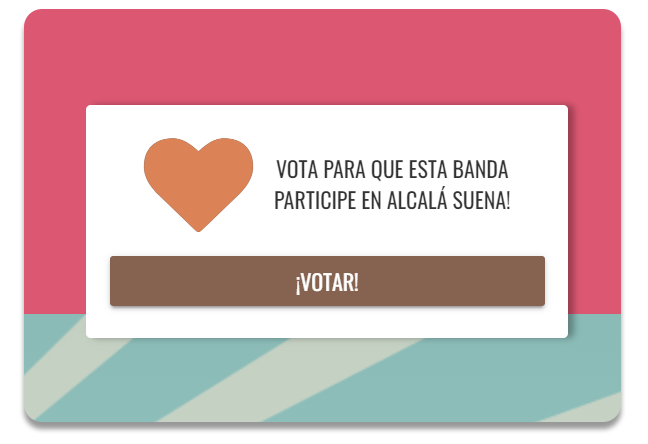
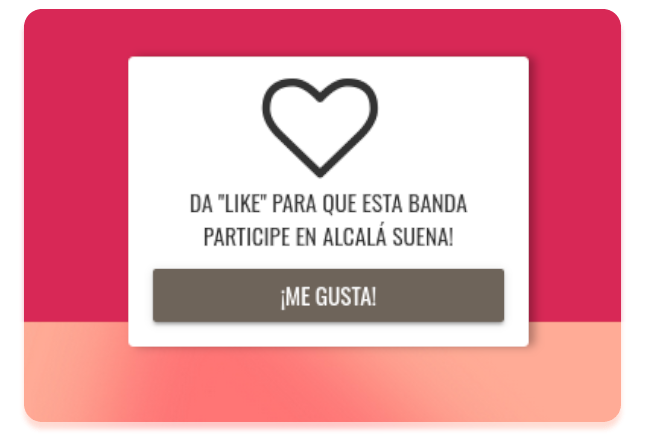
Updated public vote

diff --git a/templates/contest/public_vote.html b/templates/contest/public_vote.html
@@ -10,14 +10,14 @@
         <div class="text-center pending-vote-band" {% if voted %}style="display:none;"{% endif %}>
             <i class="fa fa-heart-o fa-5x" aria-hidden="true"><span class="num_votes">{{num_votes}}</span></i>
             <p> Da "like" para que esta banda <br>participe en Alcalá Suena!</p>
-            <button class="btn btn-primary btn-block btn-add-vote" data-vote="{% url 'contest_public_vote' band.pk %}">¡Votar!</button>
+            <button class="btn btn-primary btn-block btn-add-vote" data-vote="{% url 'contest_public_vote' band.pk %}">¡Me gusta!</button>
     <div class="alert alert-warning text-center" style="display:none;" role="alert"><span>Ya has dado like al máximo de bandas posibles</span><br><a href="{% url 'contest_user_votes' %}" class="btn-primary btn btn-block">Ver mis votos</a></div>
         </div>
     {% else %}
         <div class="text-center">
             <i class="fa fa-heart-o fa-5x" aria-hidden="true"><span class="num_votes">{{num_votes}}</span></i>
             <p> Da "like" para que esta banda <br>participe en Alcalá Suena!</p>
-            <a href="{% url 'contest_social_login' %}?band={{band.pk}}" class="btn btn-primary btn-block">¡Votar!</a>
+            <a href="{% url 'contest_social_login' %}?band={{band.pk}}" class="btn btn-primary btn-block">¡Me gusta!</a>
             </div>
     {% endif %}
 </div>

diff --git a/templates/contest/social_login.html b/templates/contest/social_login.html
@@ -18,9 +18,12 @@
     <br>
     <div class="mt-2 text-center" style="max-width:250px;margin:auto;">
         <a href="{% url 'register' %}" class="btn btn-primary btn-facebook red btn-block"> Registrarme</a>
+        <span class="small"> Registro a través de redes sociales próximamente.</span>
+        {% comment %}
          <a href="{% url 'social:begin' 'facebook' %}" class="btn btn-primary btn-facebook btn-block"><i class="fa fa-facebook" aria-hidden="true"></i> Entrar con Facebook</a>
        <!-- <a href="{% url 'social:begin' 'twitter' %}" class="btn btn-primary btn-twitter btn-block"><i class="fa fa-twitter" aria-hidden="true"></i> Entrar con Twitter</a> -->
         Registrándote a través de redes sociales confirmas que aceptas la <a href="{% url 'privacy' %}"> política de privacidad de este sitio</a>.
+        {% endcomment %}
     </div>
     <br><br>
 </div>
